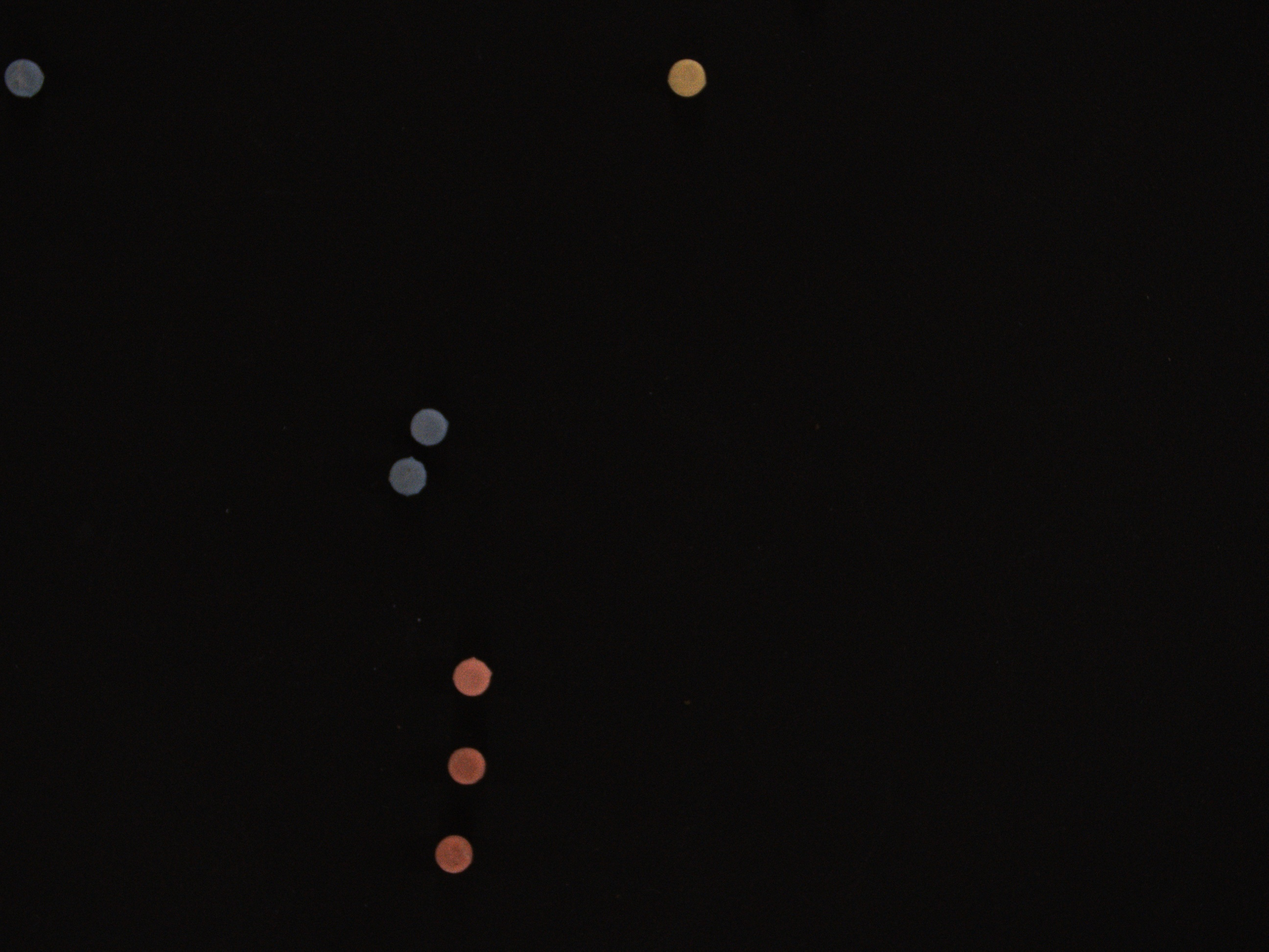
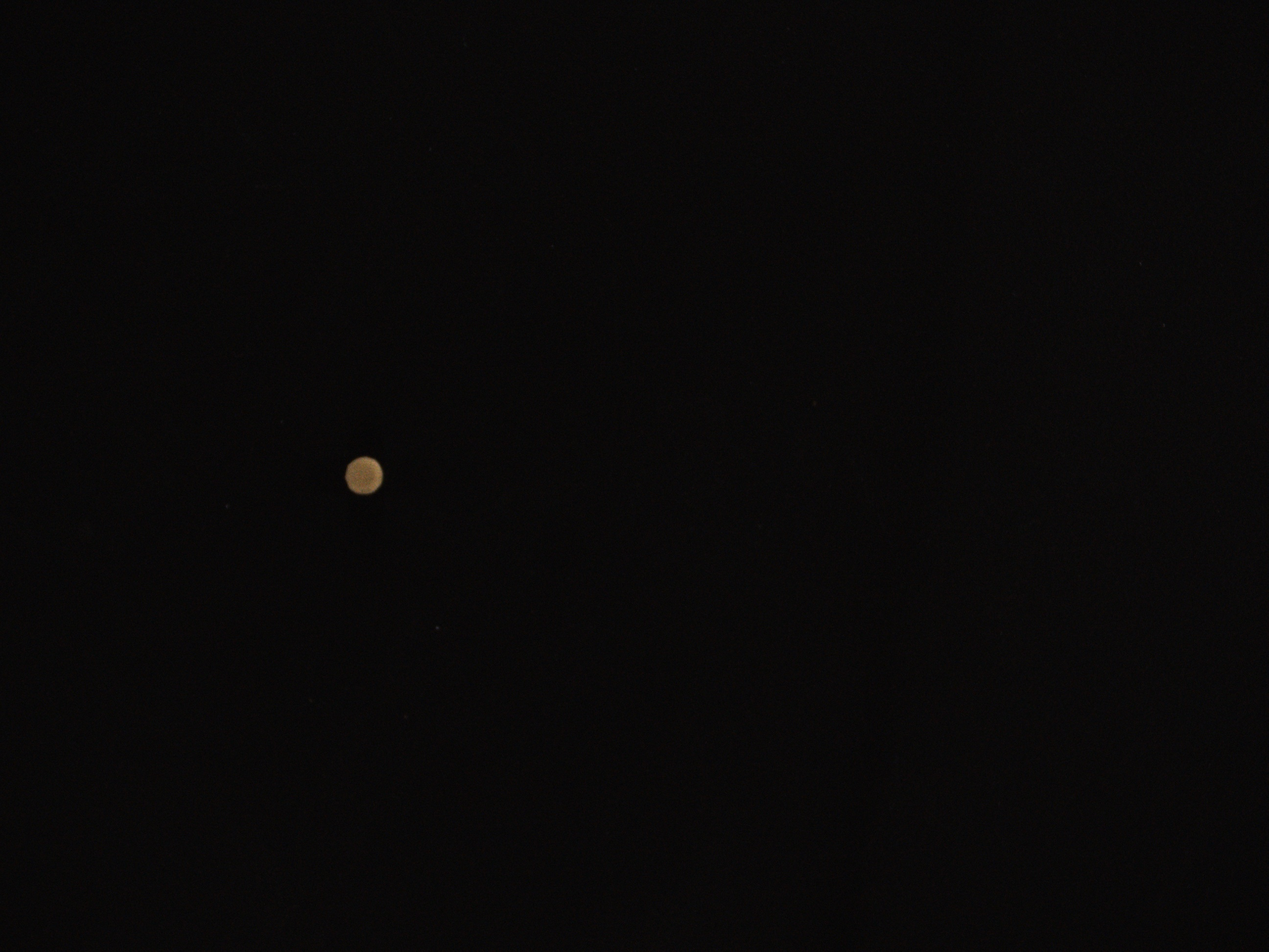
ubuntu updt

diff --git a/P-III/src/computerVision/index.js b/P-III/src/computerVision/index.js
@@ -16,21 +16,27 @@ const {
 } = _conf_.HIGH_LEVEL_API_CONF;
 
 (async () =>{
-    const res = await $("P-III.cv.raw");
-    const rawPills = JSON.parse(res);
-    const cPills = rawPills.map(rPill => {
-        const avgLAB = rgb2lab(rPill.avgRGB)
-        const [, color] = pill_colors.reduce((acc, color) => {
-            const d = deltaE(avgLAB, color.lab);
-            if(acc==undefined)return [d, color];
-            if(d>acc[0])return acc;
-            return [d, color];
-        }, []);
-        return {
-            avgLAB,
-            label : color.name,
-            ...rPill
-        }
-    });
-    console.log(JSON.stringify(cPills))
+
+    try{
+        const res = await $('zx', '/home/perpetuite3/perpetuite-III/P-III/release/computerVision/P-III.cv.wrapper');
+        const rawPills = JSON.parse(res);
+        const cPills = rawPills.map(rPill => {
+            const avgLAB = rgb2lab(rPill.avgRGB)
+            const [, color] = pill_colors.reduce((acc, color) => {
+                const d = deltaE(avgLAB, color.lab);
+                if(acc==undefined)return [d, color];
+                if(d>acc[0])return acc;
+                return [d, color];
+            }, []);
+            return {
+                avgLAB,
+                label : color.name,
+                ...rPill
+            }
+        });
+        console.log(JSON.stringify(cPills))    
+    }catch(error){
+        console.log(error)
+    }
+    
 })();

diff --git a/P-III/src/App/CameraModel.js b/P-III/src/App/CameraModel.js
@@ -20,7 +20,9 @@ const {
     camera : {
         size:camSize,
         offset:camOffset,
-        rotate:camRotation
+        rotate:camRotation,
+        size_px,
+        size_mm,
       },
     pill_size_mm,
     pill_size_px
@@ -29,7 +31,9 @@ const {
 
 class CameraModel extends EventHandler {
 	static DEG_TO_RAD = Math.PI * 2 / 360.0
-	static PIX_TO_MM = pill_size_mm / pill_size_px;
+	// static PIX_TO_MM = pill_size_mm / pill_size_px;
+	static PIX_TO_MM = (new Vector(...size_mm)).divide(new Vector(...size_px)).toArray().reduce((acc, v)=>acc+=v, 0)/2 
+
 	static CAM_SIZE_PX = new Vector(...camSize);
 	static CAM_OFFSET_PX = new Vector(...camOffset);
 
@@ -41,12 +45,20 @@ class CameraModel extends EventHandler {
 		super();
 	}
 	camToWorld(point){
+		// 732  886 >>> 0 0
+
+		console.log(
+			(new Vector(...point)), 
+			(new Vector(...point))
+				.subtract(CameraModel.CAM_OFFSET_PX)
+		);
+
   		return (new Vector(...point))
-			.subtract(CameraModel.OFFSET_PX)
-			.rotate(Vector.Up(), CameraModel.ROTATION)
-			.multiply(new Vector(1, -1, 1))
+			.subtract(CameraModel.CAM_OFFSET_PX)
+			// .rotate(Vector.Up(), CameraModel.ROTATION)
+			.multiply(new Vector(-1, 1, 1))
 			.multiply(CameraModel.PIX_TO_MM)
-			.subtract(RobotModel.location);
+			.add(RobotModel.location);
 	}
 	getFieldOfView(){
 		const fov =  new Rect([

diff --git a/P-III/src/App/index.js b/P-III/src/App/index.js
@@ -24,11 +24,11 @@ const {
 const colors = pill_colors.map(({name})=>name);
 
 PillsModel.onPillDiscovered((event)=>{
-  // console.log(event);
+  console.log(event);
 });
 
 const updateCV = async (loop = false)=>{
-  CameraModel.getFieldOfView();
+  // CameraModel.getFieldOfView();
 
   const cPills = await CameraModel.getPillPos();
   PillsModel.update(cPills);
@@ -48,9 +48,9 @@ const updateMove = async (loop = false) => {
 
 
 (async () => {
-  await RobotModel.init();
+  // await RobotModel.init();
   updateCV(true);  
-  updateMove(true);
+  // updateMove(true);
 })()
 
 

diff --git a/P-III/src/common/tools.js b/P-III/src/common/tools.js
@@ -149,9 +149,9 @@ export const promisify = (f) => {
   };
 }
 
-export const $ = (cmd) => {
+export const $ = (cmd, ...args) => {
     return new Promise((res, rej)=>{
-        const proc = spawn(cmd);
+        const proc = spawn(cmd, args);
         let r = "";
         let e = "";
 

diff --git a/P-III/src/computerVision/computerVision.py b/P-III/src/computerVision/computerVision.py
@@ -63,7 +63,7 @@ def getCameraView() :
         # stop data acquisition
         cam.stream_off()
         # close device
-        cam.close_device()
+        #cam.close_device()
 
         return pimg
 
